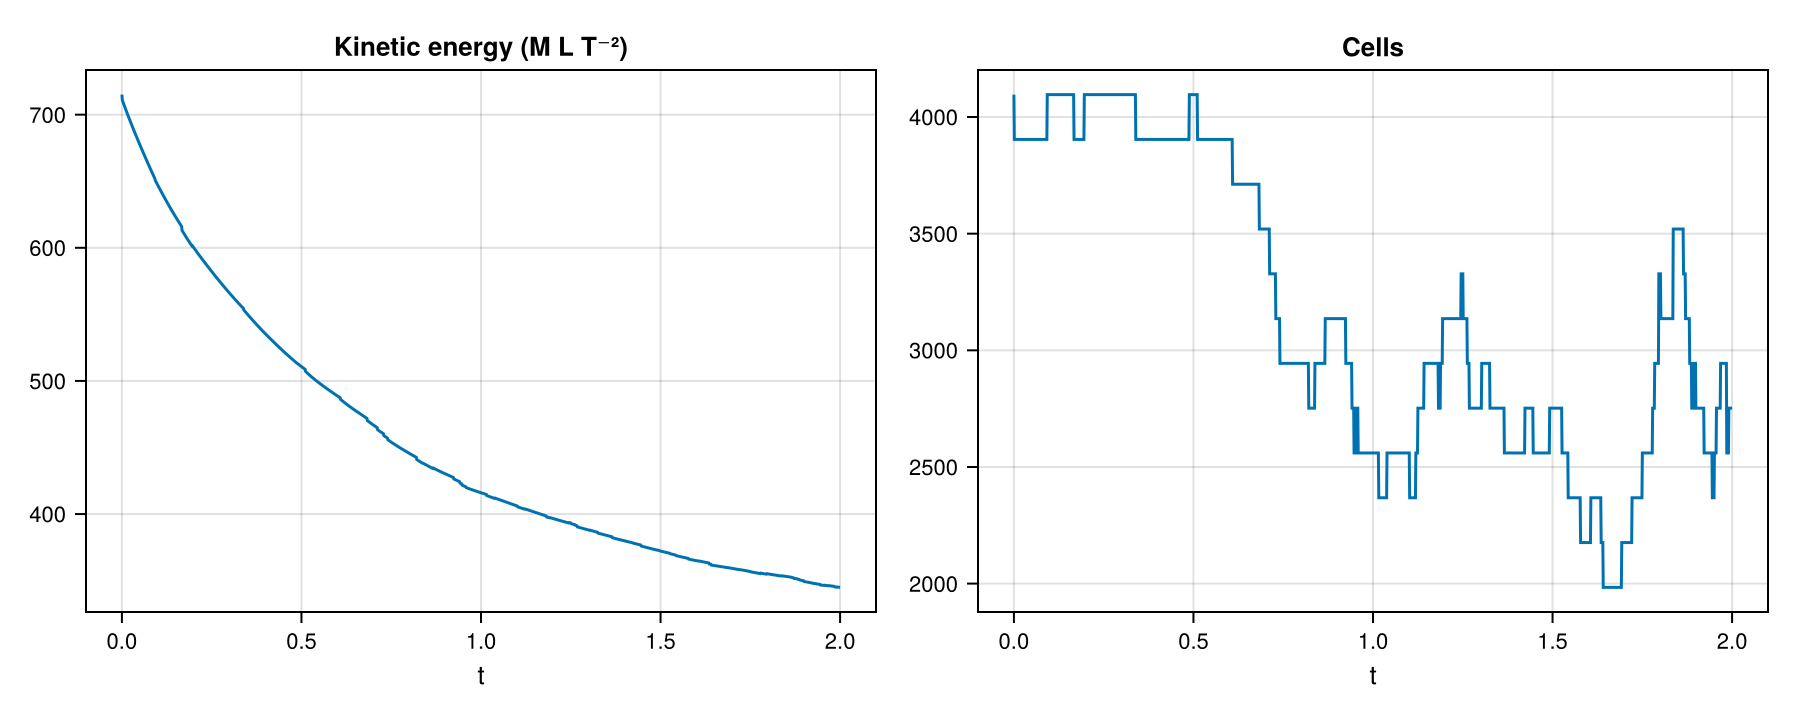
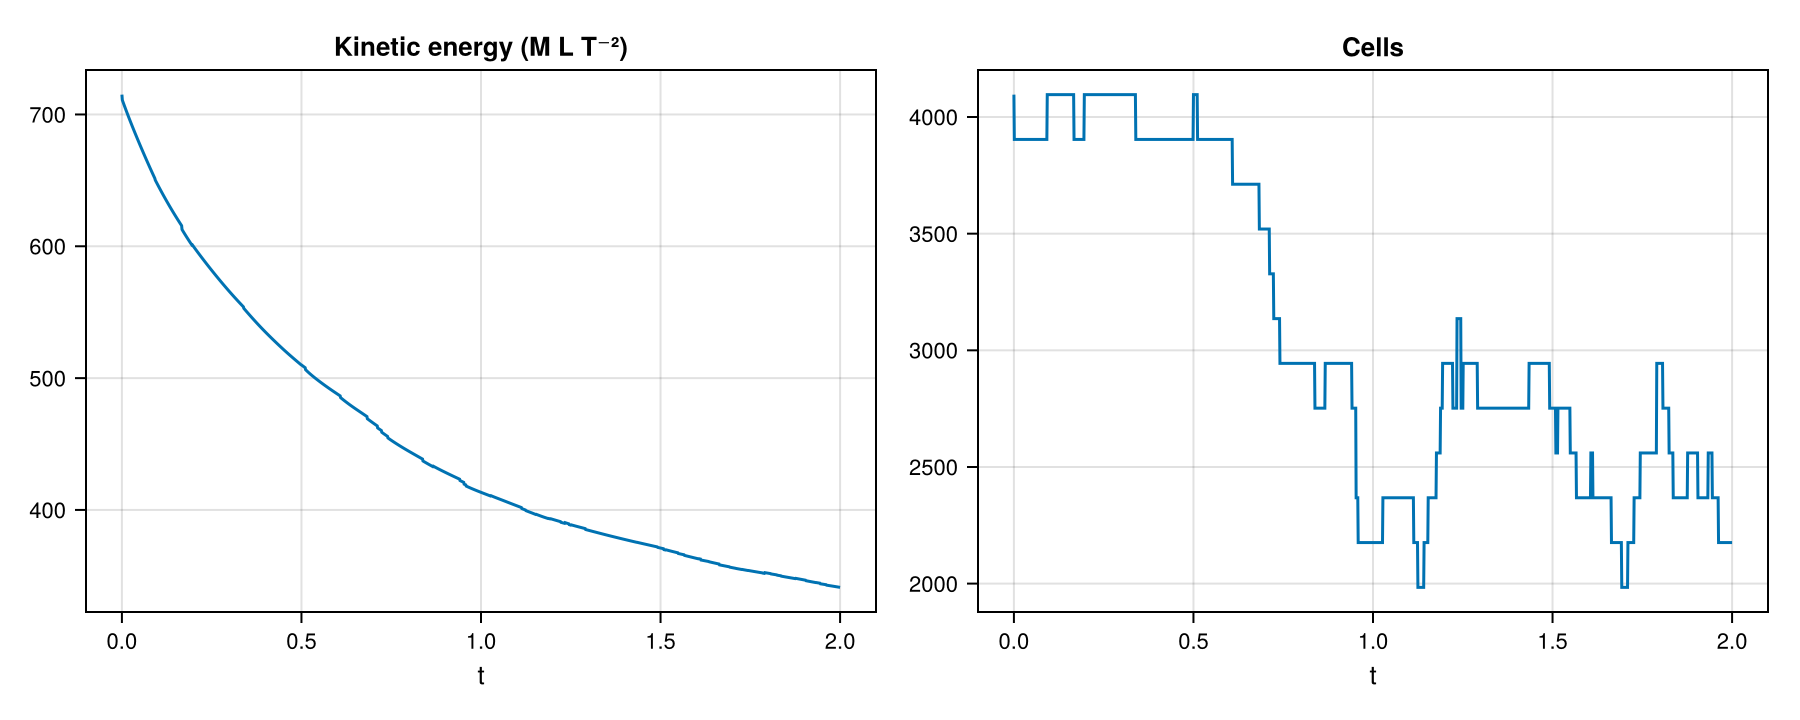
Regenerate example 03 assets and numbers after the numerics fixes
The docs run now ends at 2176 cells after 54 mesh updates (previously 2752
and 67), with projected kinetic energy 341.261 (344.946) and final divergence
norm 1.08446e-6 (1.03542e-6). The animation samples its 41 output frames on a
uniform simulation-time grid. Adds the measured level-4 default cost.

diff --git a/examples/03_decaying_turbulence/README.md b/examples/03_decaying_turbulence/README.md
@@ -11,8 +11,8 @@ A seeded periodic velocity field decays while pressure-driven adaptation changes
 | **Physics** | Single phase on the periodic square `[0, 2π]²`, density 1, `reynolds=400` and dynamic viscosity 0.0025; initially random, band-limited solenoidal modes. The Reynolds parameter sets viscosity and is not a measured turbulent Reynolds number. |
 | **Algorithms** | Initial velocity projection, Lax–Wendroff staggered advection, implicit-midpoint diffusion and pressure projection. Pressure uses CG/tree multigrid; diffusion uses tree multigrid and selects CG or BiCGSTAB by matrix symmetry. Pressure interpolation-error AMR uses refine/coarsen thresholds 0.6/0.2, update interval 5, coarsen delay 25 and minimum level `min(2, max_level)`. Automatic stepping uses CFL 0.45. |
 | **Worth varying** | `reynolds=400` changes viscosity; `max_level=4` changes the finest possible level; `final_time=10` sets the duration; `dt=nothing` selects automatic steps. At `max_level=2` the protected minimum equals the maximum, so no coarsening below level 2 is possible. |
-| **Validated against** | Incompressibility has exact reference zero: the final volume-weighted `:divergence_norm` is `1.03542e-6` at docs size. `:projected_kinetic_energy` decreases from `715.044` to `344.946`; no exact turbulent-flow trajectory is claimed. |
-| **Cost** | Default: level 4, `T=10`, initially 16384 cells; runtime unmeasured. Docs: level 3, `T=2`, initially 4096 and finally 2752 cells, 1744 steps and 67 mesh updates; setup and simulation took 15.52 s. Incremental generator compilation, including rendering, was 8.44 s in a shared single-thread process. |
+| **Validated against** | Incompressibility has exact reference zero: the final volume-weighted `:divergence_norm` is `1.08446e-6` at docs size. `:projected_kinetic_energy` decreases from `715.044` to `341.261`; no exact turbulent-flow trajectory is claimed. |
+| **Cost** | Default: level 4, `T=10`, initially 16384 and finally 1024 cells, 18213 steps and 393 mesh updates; setup and simulation took 106.4 s on one thread. Docs: level 3, `T=2`, initially 4096 and finally 2176 cells, 1744 steps and 54 mesh updates; setup and simulation took 19.45 s and the whole figure script 39.76 s, including first-use compilation and rendering. |
 
 The gallery measurement used Julia 1.12.7, one Julia thread and one BLAS thread; compilation depends on earlier examples and package loading is excluded.
 
@@ -56,11 +56,11 @@ The hero compares the initial and final retained vorticity states, with leaf-blo
 
 ![Kinetic energy and active cell count over time](assets/energy_cells.png)
 
-The projected energy falls from `715.044` to `344.946`, while active cells fall from 4096 to 2752. The figure registers `:projected_kinetic_energy` after the initial projection; the example's original initial energy sample predates it.
+The projected energy falls from `715.044` to `341.261`, while active cells fall from 4096 to 2176. The figure registers `:projected_kinetic_energy` after the initial projection.
 
 ![Animation of adaptive vorticity](assets/vorticity.gif)
 
-The animation shows 41 nearest completed-step states (not interpolated), with one symmetric vorticity range over all frames, next to the kinetic energy and active cell count with a cursor at the shown time.
+The GIF samples 41 output frames on a uniform simulation-time grid over the two simulated time units, each showing the nearest retained keyframe (the completed step nearest its target time), with one symmetric vorticity range over all frames, next to the kinetic energy and active cell count with a cursor at the shown time.
 
 ## Variations
 
